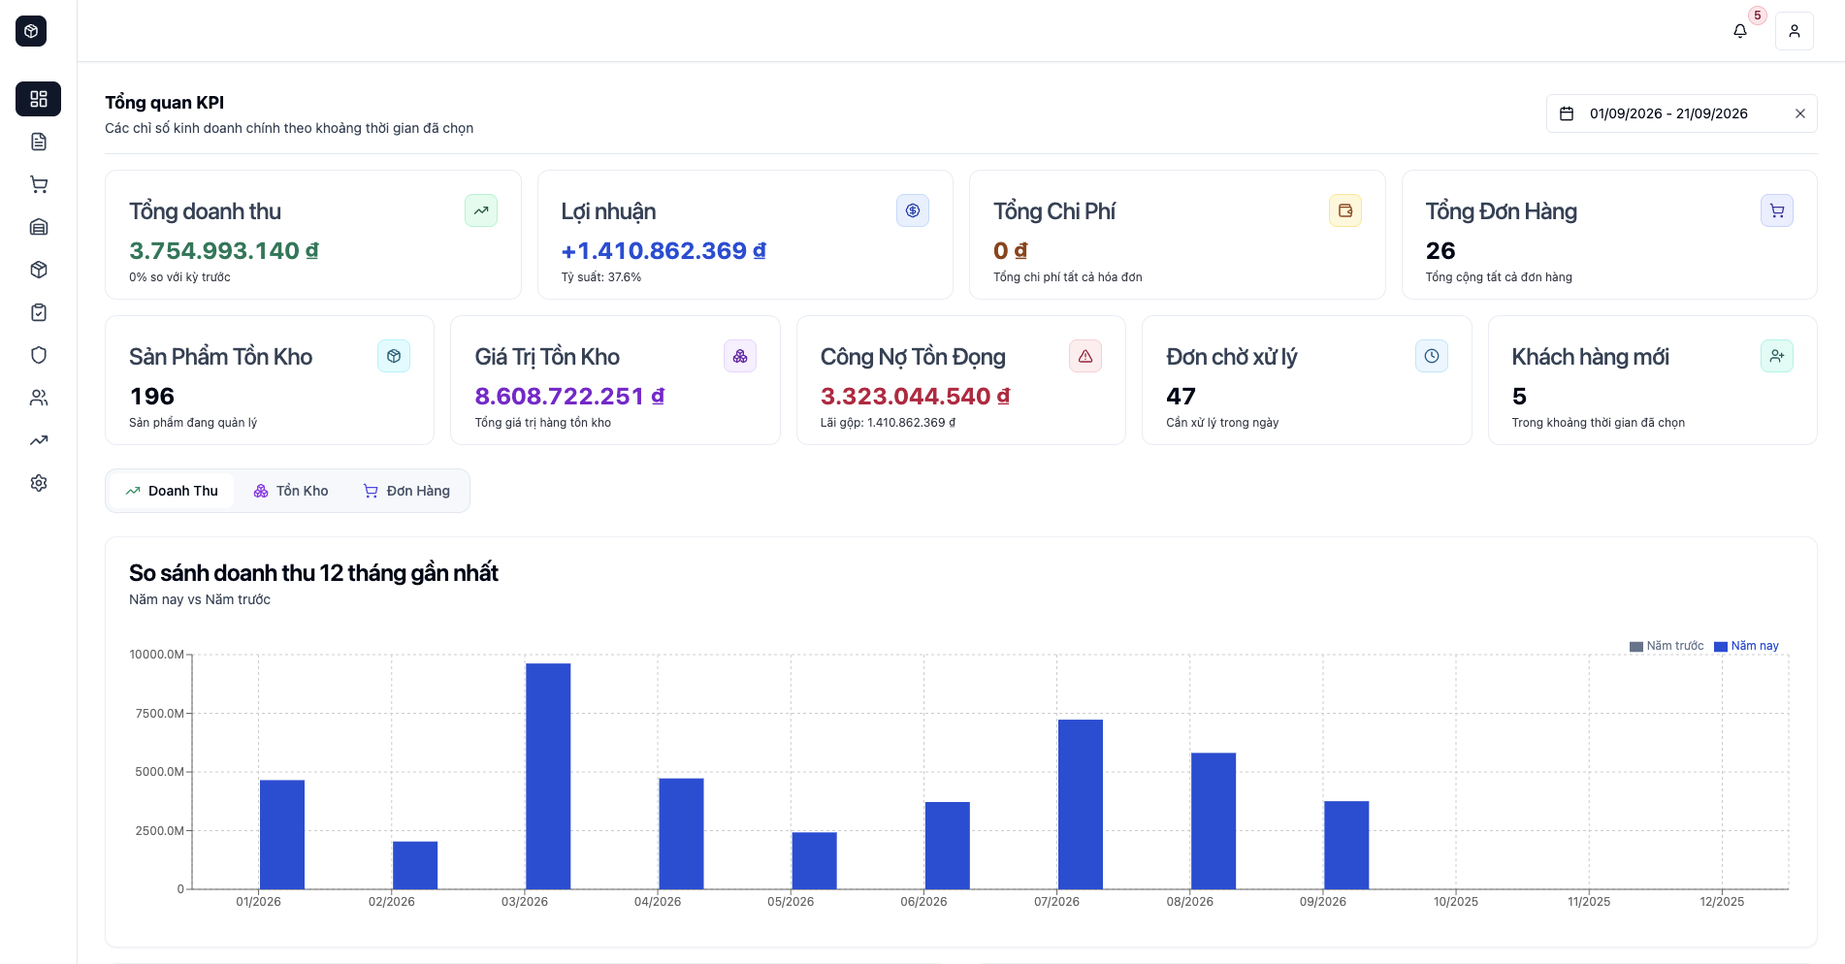
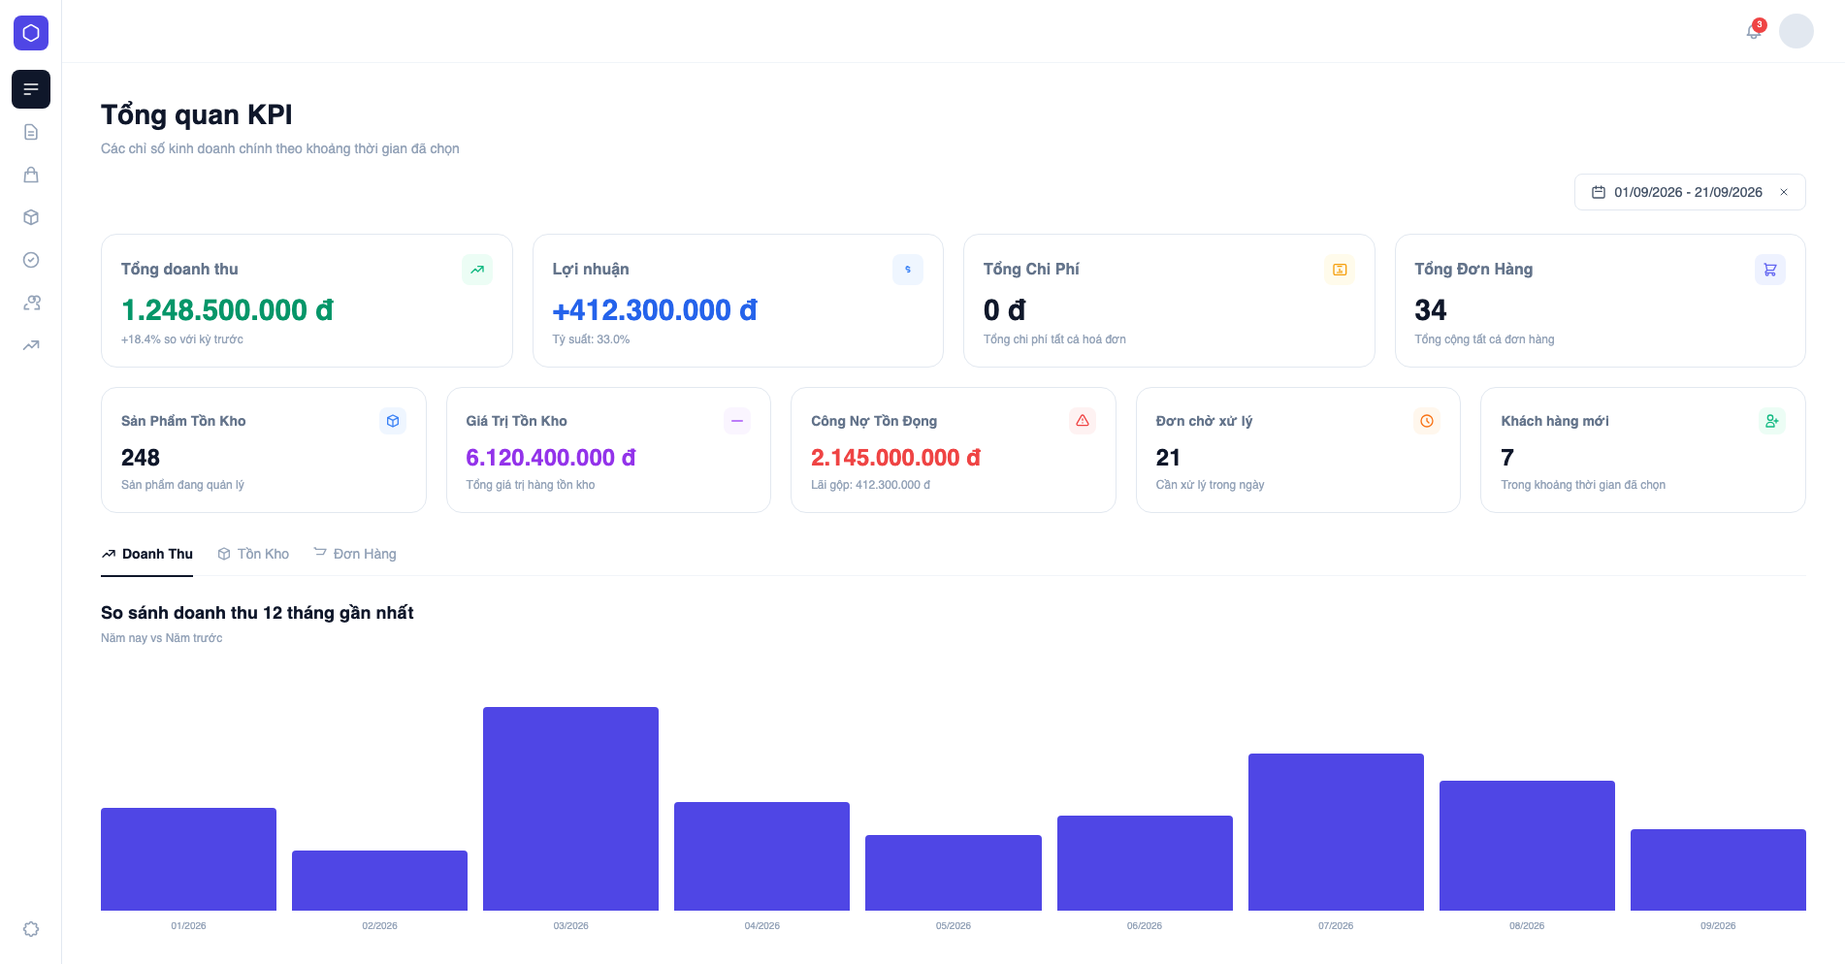
feat: add VienTinSea Contract Hub as 3rd showcase project, fake sensitive data, redesign hero and selector
- Replace VienTinSea Warehouse screenshot with a fabricated mockup (real revenue/inventory figures were exposed publicly before)
- Add VienTinSea Contract Hub as a 3rd showcase project (hero 3D card, tab, detail panel) using a fabricated contract-management mockup screenshot
- Anonymize the Verdict case study's real client name to avoid legal exposure
- Rework the hero 3D card stack layout for 3 cards so they cascade as one cohesive deck instead of floating apart
- Redesign the project selector from a cramped horizontal scroll row into an equal-width 3-column grid with carousel controls on their own row
- Extend switchProjectView/projectConfigs loops from 2 to 3 projects; remove badge translation keys left dead by the selector redesign

diff --git a/index.html b/index.html
@@ -237,7 +237,7 @@
           <div class="mx-auto w-full max-w-[480px] lg:max-w-none">
             
             <!-- 3D Card Deck Container -->
-            <div class="relative w-full h-[330px] sm:h-[360px] lg:h-[380px] card-deck-container select-none">
+            <div class="relative w-full h-[360px] sm:h-[380px] lg:h-[390px] card-deck-container select-none">
               
               <!-- THẺ 1: DỰ ÁN VERDICT - LEGALTECH ENTERPRISE - Tilted -7deg -->
               <div onclick="focusProjectView(0)" onkeydown="if(event.key==='Enter'||event.key===' '){event.preventDefault();focusProjectView(0);}" class="deck-card deck-card-1 group" id="deck-card-0" role="button" tabindex="0" title="Click để xem chi tiết dự án Trợ lý Pháp lý Verdict" aria-label="Xem chi tiết dự án Verdict — Trợ lý Pháp lý AI">
@@ -290,12 +290,37 @@
                 </div>
               </div>
 
+              <!-- THẺ 3: DỰ ÁN QUẢN LÝ HỢP ĐỒNG (VIENTINSEA CONTRACT HUB) - Tilted -3deg -->
+              <div onclick="focusProjectView(2)" onkeydown="if(event.key==='Enter'||event.key===' '){event.preventDefault();focusProjectView(2);}" class="deck-card deck-card-3 group" id="deck-card-2" role="button" tabindex="0" title="Click để xem chi tiết dự án Quản lý Hợp đồng VienTinSea" aria-label="Xem chi tiết dự án VienTinSea Contract Hub">
+                <span class="sheen-sweep"></span>
+                <!-- Mini Window Bar -->
+                <div class="bg-brand-navy px-3 py-2 border-b border-brand-navyLight flex items-center justify-between">
+                  <div class="flex items-center space-x-1.5">
+                    <span class="w-2 h-2 rounded-full bg-red-400"></span>
+                    <span class="w-2 h-2 rounded-full bg-yellow-400"></span>
+                    <span class="w-2 h-2 rounded-full bg-emerald-400"></span>
+                    <span class="ml-2 text-[10px] font-mono text-slate-300 truncate max-w-[120px] sm:max-w-[150px]">contracthub.vientinsea.com</span>
+                  </div>
+                  <div class="flex items-center gap-1 bg-white/10 px-1.5 py-0.5 rounded text-[10px] font-bold text-white tracking-wide">
+                    <span>EasyAI.vn</span>
+                  </div>
+                </div>
+                <!-- Card Body: Real product screenshot -->
+                <div class="bg-white">
+                  <img src="assets/img/projects/contracthub-01.png" alt="VienTinSea Contract Hub, giao diện Quản lý Hợp đồng" class="w-full h-auto block" loading="lazy" width="1902" height="994">
+                  <div class="px-3 py-2 flex items-center justify-between text-[10px] text-slate-500 border-t border-slate-100">
+                    <span class="font-bold text-brand-navy truncate" data-i18n="proj.p2.title">VienTinSea Contract Hub</span>
+                    <span class="text-brand-primary font-bold group-hover:translate-x-0.5 transition-transform shrink-0 ml-2">Chi tiết →</span>
+                  </div>
+                </div>
+              </div>
+
             </div>
 
             <!-- Bottom Showcase Bar (XimiTech Style) -->
             <a href="#showcase-details" class="group mt-6 flex items-center justify-between gap-4 border-t border-slate-200/90 pt-4 text-sm font-bold text-slate-700 transition-colors hover:text-brand-primary">
               <span class="flex items-center gap-3">
-                <span class="text-brand-primary font-black text-base">2+</span>
+                <span class="text-brand-primary font-black text-base">3+</span>
                 <span data-i18n="hero.banner.link">dự án tiêu biểu triển khai theo ngành</span>
               </span>
               <span class="flex h-9 w-9 flex-none items-center justify-center rounded-full border border-slate-300 text-slate-600 transition-all duration-300 group-hover:border-brand-primary group-hover:bg-brand-primary group-hover:text-white shadow-sm">
@@ -335,44 +360,48 @@
       <div class="relative max-w-5xl mx-auto">
 
         <!-- Project Selector Navigation (Tabs + Carousel Controls) -->
-        <div class="mb-4 flex flex-col md:flex-row items-stretch md:items-center justify-between gap-3">
-          <!-- 4 Project Pills -->
-          <div class="flex items-center bg-slate-100/95 p-1 rounded-2xl border border-slate-200/90 shadow-inner overflow-x-auto" role="tablist" aria-label="Project selector">
+        <div class="mb-5">
+          <!-- 3 Project Cards (equal-width grid, wraps on mobile) -->
+          <div class="grid grid-cols-1 sm:grid-cols-3 gap-2.5" role="tablist" aria-label="Project selector">
             <!-- Project 0 Button: Verdict AI -->
-            <button onclick="switchProjectView(0)" id="project-btn-0" class="project-pill px-3.5 sm:px-4 py-2 rounded-xl bg-white text-brand-navy shadow-sm border border-brand-border font-bold text-xs sm:text-sm flex items-center gap-2 transition-all whitespace-nowrap" role="tab" aria-selected="true">
-              <span class="text-base">⚖</span>
-              <div class="text-left leading-tight">
-                <div class="text-[10px] text-brand-primary uppercase font-bold tracking-wider flex items-center gap-1.5">
-                  <span data-i18n="proj.p0.badge">DỰ ÁN 01 · LEGALTECH (VERDICT AI)</span>
-                  <span class="inline-flex items-center px-1.5 py-0.5 rounded-full bg-brand-primary text-white text-[9px] font-bold normal-case tracking-normal" data-i18n="proj.p0.flagship">⭐ Flagship</span>
-                </div>
-                <div class="font-bold text-brand-navy" data-i18n="proj.p0.title">Verdict — Trợ Lý Pháp Lý AI</div>
+            <button onclick="switchProjectView(0)" id="project-btn-0" class="project-pill p-3.5 rounded-xl bg-white text-brand-navy shadow-sm border border-brand-border font-bold text-sm flex items-center gap-3 transition-all min-w-0" role="tab" aria-selected="true">
+              <span class="text-xl shrink-0">⚖</span>
+              <div class="text-left leading-tight min-w-0">
+                <div class="font-bold text-brand-navy truncate" data-i18n="proj.p0.title">Verdict — Trợ Lý Pháp Lý AI</div>
+                <span class="inline-flex items-center mt-1 px-1.5 py-0.5 rounded-full bg-brand-primary text-white text-[9px] font-bold" data-i18n="proj.p0.flagship">⭐ Flagship</span>
               </div>
             </button>
             <!-- Project 1 Button: Logistics -->
-            <button onclick="switchProjectView(1)" id="project-btn-1" class="project-pill px-3.5 sm:px-4 py-2 rounded-xl text-slate-600 hover:text-brand-navy hover:bg-white/60 font-medium text-xs sm:text-sm flex items-center gap-2 transition-all whitespace-nowrap" role="tab" aria-selected="false">
-              <span class="text-base">📦</span>
-              <div class="text-left leading-tight">
-                <div class="text-[10px] text-slate-500 uppercase font-bold tracking-wider" data-i18n="proj.p1.badge">DỰ ÁN 02 · QUẢN LÝ KHO VẬN</div>
-                <div class="font-medium text-brand-navy" data-i18n="proj.p1.title">VienTinSea Warehouse</div>
+            <button onclick="switchProjectView(1)" id="project-btn-1" class="project-pill p-3.5 rounded-xl bg-slate-100/80 text-slate-600 hover:text-brand-navy hover:bg-white font-medium text-sm flex items-center gap-3 transition-all min-w-0" role="tab" aria-selected="false">
+              <span class="text-xl shrink-0">📦</span>
+              <div class="text-left leading-tight min-w-0">
+                <div class="font-medium text-brand-navy truncate" data-i18n="proj.p1.title">VienTinSea Warehouse</div>
+                <div class="text-[10px] text-slate-400 font-semibold uppercase tracking-wide mt-0.5" data-i18n="proj.p1.badge.short">Quản lý Kho vận</div>
+              </div>
+            </button>
+            <!-- Project 2 Button: Contract Hub -->
+            <button onclick="switchProjectView(2)" id="project-btn-2" class="project-pill p-3.5 rounded-xl bg-slate-100/80 text-slate-600 hover:text-brand-navy hover:bg-white font-medium text-sm flex items-center gap-3 transition-all min-w-0" role="tab" aria-selected="false">
+              <span class="text-xl shrink-0">📄</span>
+              <div class="text-left leading-tight min-w-0">
+                <div class="font-medium text-brand-navy truncate" data-i18n="proj.p2.title">VienTinSea Contract Hub</div>
+                <div class="text-[10px] text-slate-400 font-semibold uppercase tracking-wide mt-0.5" data-i18n="proj.p2.badge.short">Quản lý Hợp đồng</div>
               </div>
             </button>
           </div>
 
           <!-- Carousel Controls: Dots & Prev/Next Arrows -->
-          <div class="flex items-center justify-between md:justify-end gap-3 px-1">
+          <div class="flex items-center justify-center gap-4 mt-3.5">
+            <button onclick="stepProjectView(-1)" class="p-1.5 rounded-lg text-slate-400 hover:text-brand-navy hover:bg-slate-100 transition-all focus:outline-none focus:ring-2 focus:ring-brand-primary" aria-label="Previous project" title="Dự án trước">
+              <svg class="w-4 h-4" fill="none" stroke="currentColor" viewBox="0 0 24 24"><path stroke-linecap="round" stroke-linejoin="round" stroke-width="2" d="M15 19l-7-7 7-7"/></svg>
+            </button>
             <div class="flex items-center gap-1.5" id="project-dots">
               <span class="w-3 h-2.5 rounded-full bg-brand-primary transition-all cursor-pointer" onclick="switchProjectView(0)" title="Dự án 1: Verdict Legal AI"></span>
               <span class="w-2 h-2 rounded-full bg-slate-300 hover:bg-slate-400 transition-all cursor-pointer" onclick="switchProjectView(1)" title="Dự án 2: Logistics"></span>
+              <span class="w-2 h-2 rounded-full bg-slate-300 hover:bg-slate-400 transition-all cursor-pointer" onclick="switchProjectView(2)" title="Dự án 3: Contract Hub"></span>
             </div>
-            <div class="flex items-center gap-1.5">
-              <button onclick="stepProjectView(-1)" class="p-2 rounded-lg bg-white hover:bg-slate-100 border border-slate-200 text-brand-navy shadow-sm transition-all focus:outline-none" aria-label="Previous project" title="Dự án trước">
-                <svg class="w-4 h-4" fill="none" stroke="currentColor" viewBox="0 0 24 24"><path stroke-linecap="round" stroke-linejoin="round" stroke-width="2" d="M15 19l-7-7 7-7"/></svg>
-              </button>
-              <button onclick="stepProjectView(1)" class="p-2 rounded-lg bg-white hover:bg-slate-100 border border-slate-200 text-brand-navy shadow-sm transition-all focus:outline-none" aria-label="Next project" title="Dự án tiếp theo">
-                <svg class="w-4 h-4" fill="none" stroke="currentColor" viewBox="0 0 24 24"><path stroke-linecap="round" stroke-linejoin="round" stroke-width="2" d="M9 5l7 7-7 7"/></svg>
-              </button>
-            </div>
+            <button onclick="stepProjectView(1)" class="p-1.5 rounded-lg text-slate-400 hover:text-brand-navy hover:bg-slate-100 transition-all focus:outline-none focus:ring-2 focus:ring-brand-primary" aria-label="Next project" title="Dự án tiếp theo">
+              <svg class="w-4 h-4" fill="none" stroke="currentColor" viewBox="0 0 24 24"><path stroke-linecap="round" stroke-linejoin="round" stroke-width="2" d="M9 5l7 7-7 7"/></svg>
+            </button>
           </div>
         </div>
 
@@ -402,7 +431,7 @@
           <div class="bg-brand-bgLight px-6 py-2.5 border-b border-brand-border flex flex-wrap items-center justify-between gap-3 text-xs">
             <div class="flex items-center gap-2 text-slate-700">
               <span class="w-2 h-2 rounded-full bg-brand-primary"></span>
-              <span id="project-mockup-client" class="font-semibold text-brand-navy" data-i18n="proj.p0.client">Triển khai thực tế tại Liên minh Năng lượng & Xây dựng Tín Phát (Audit danh mục HĐ $185M+)</span>
+              <span id="project-mockup-client" class="font-semibold text-brand-navy" data-i18n="proj.p0.client">Triển khai thực tế tại một Tập đoàn Năng lượng & Xây dựng hàng đầu (Audit danh mục HĐ $185M+)</span>
             </div>
             <span class="text-brand-navyMuted font-mono" data-i18n="proj.sync">Dữ liệu thời gian thực: Đồng bộ 12:45:00</span>
           </div>
@@ -449,6 +478,20 @@
             </div>
           </div>
 
+          <!-- ============================================================== -->
+          <!-- KHUNG VIEW 03: DỰ ÁN QUẢN LÝ HỢP ĐỒNG (VIENTINSEA CONTRACT HUB) -->
+          <!-- ============================================================== -->
+          <div id="project-view-2" class="p-6 hidden">
+            <!-- Real product screenshot -->
+            <div class="rounded-xl border border-brand-border overflow-hidden bg-slate-50">
+              <img src="assets/img/projects/contracthub-01.png" alt="Ảnh chụp giao diện Quản lý Hợp đồng VienTinSea" class="w-full h-auto block" loading="lazy" width="1902" height="994">
+            </div>
+            <div class="mt-5">
+              <a href="#demo-form" class="block text-center w-full py-2.5 rounded-lg bg-brand-navy text-white text-xs font-bold hover:bg-brand-navyLight transition-colors" data-i18n="proj.p2.nba.btn">
+                Xem demo bài toán Quản lý Hợp đồng của bạn →
+              </a>
+            </div>
+          </div>
 
         </div>
       </div>

diff --git a/assets/js/app.js b/assets/js/app.js
@@ -29,18 +29,22 @@
         "showcase.badge": "THỰC TẾ TRIỂN KHAI · DOANH NGHIỆP LỚN",
         "showcase.title": "Một Vài Dự Án Tiêu Biểu Của Easy&nbsp;AI",
         "showcase.subtitle": "Khám phá dữ liệu nghiệp vụ thực tế, cấu trúc KPI theo ngành và các hành động tự động hóa AI đã vận hành tại các đối tác quy mô lớn.",
-        "proj.p0.badge": "DỰ ÁN 01 · LEGALTECH (VERDICT AI)",
         "proj.p0.flagship": "⭐ Dự án Flagship",
         "proj.p0.title": "Verdict — Trợ Lý Pháp Lý AI",
-        "proj.p0.client": "Triển khai thực tế tại Liên minh Năng lượng & Xây dựng Tín Phát (Audit danh mục HĐ $185M+)",
+        "proj.p0.client": "Triển khai thực tế tại một Tập đoàn Năng lượng & Xây dựng hàng đầu (Audit danh mục HĐ $185M+)",
         "proj.p0.status": "AI Engine: Legal LLM Fine-Tuned · On-Premise Isolated · VIAC / ICC Ready",
         "proj.p0.nba.btn": "Trải nghiệm thử Verdict Legal AI →",
-        "proj.p1.badge": "DỰ ÁN 02 · QUẢN LÝ KHO VẬN",
         "proj.p1.title": "VienTinSea Warehouse",
         "proj.p1.client": "Triển khai thực tế tại VienTinSea Warehouse",
         "proj.p1.status": "AI Engine: v4.2 Active · Đồng bộ WMS Realtime",
         "proj.sync": "Dữ liệu thời gian thực: Đồng bộ 12:45:00",
         "proj.p1.nba.btn": "Xem demo bài toán Quản lý Kho vận của bạn →",
+        "proj.p2.title": "VienTinSea Contract Hub",
+        "proj.p2.client": "Triển khai thực tế tại VienTinSea Contract Hub",
+        "proj.p2.status": "AI Engine: v4.2 Active · Đồng bộ Chữ ký số Realtime",
+        "proj.p2.nba.btn": "Xem demo bài toán Quản lý Hợp đồng của bạn →",
+        "proj.p1.badge.short": "Quản lý Kho vận",
+        "proj.p2.badge.short": "Quản lý Hợp đồng",
         "dash.copilot.b2": "• <strong>Người có tiếng nói quyết định:</strong> Giám đốc Chuyển đổi số (Đã đồng ý ngân sách) & Trưởng phòng An ninh thông tin (Cần xem xét chứng nhận D-U-N-S và ISO 27001).",
         "problem.tag": "Thực trạng nhức nhối",
         "problem.title": "Vì sao 80% dự án CRM hiện nay không mang lại giá trị thực?",
@@ -256,18 +260,22 @@
         "showcase.badge": "PRODUCTION DEPLOYMENTS · ENTERPRISE TIER",
         "showcase.title": "Selected Enterprise AI Deployments by Easy&nbsp;AI",
         "showcase.subtitle": "Explore live production metrics, industry-specific KPIs, and autonomous AI actions deployed across enterprise partners.",
-        "proj.p0.badge": "PROJECT 01 · LEGALTECH (VERDICT AI)",
         "proj.p0.flagship": "⭐ Flagship Project",
         "proj.p0.title": "Verdict — AI Legal Intelligence",
-        "proj.p0.client": "Live deployment at Tin Phat Energy & Infrastructure Group ($185M+ contract audit portfolio)",
+        "proj.p0.client": "Live deployment at a leading Energy & Infrastructure Group ($185M+ contract audit portfolio)",
         "proj.p0.status": "AI Engine: Legal LLM Fine-Tuned · On-Premise Isolated · VIAC / ICC Ready",
         "proj.p0.nba.btn": "Explore Verdict Legal AI Demo →",
-        "proj.p1.badge": "PROJECT 02 · WAREHOUSE MANAGEMENT",
         "proj.p1.title": "VienTinSea Warehouse",
         "proj.p1.client": "Live deployment at VienTinSea Warehouse",
         "proj.p1.status": "AI Engine: v4.2 Active · Realtime WMS Sync",
         "proj.sync": "Real-time data: Synced 12:45:00",
         "proj.p1.nba.btn": "Explore Warehouse Management Demo →",
+        "proj.p2.title": "VienTinSea Contract Hub",
+        "proj.p2.client": "Live deployment at VienTinSea Contract Hub",
+        "proj.p2.status": "AI Engine: v4.2 Active · Realtime E-Signature Sync",
+        "proj.p2.nba.btn": "Explore Contract Management Demo →",
+        "proj.p1.badge.short": "Warehouse Management",
+        "proj.p2.badge.short": "Contract Management",
         "dash.copilot.b2": "• <strong>Key Decision Makers:</strong> Chief Digital Officer (Budget approved) & CISO (Reviewing D-U-N-S and ISO 27001 credentials).",
         "problem.tag": "The Enterprise Reality",
         "problem.title": "Why 80% of Enterprise CRM Projects Fail to Deliver ROI",
@@ -518,7 +526,7 @@
       menu.classList.toggle('hidden');
     }
 
-    // 2 Enterprise Project Showcase Views Switcher
+    // 3 Enterprise Project Showcase Views Switcher
     let currentProject = 0;
     const projectConfigs = [
       {
@@ -530,15 +538,20 @@
         url: "warehub-vientinsea.easyai-wallet.com",
         statusKey: "proj.p1.status",
         clientKey: "proj.p1.client"
+      },
+      {
+        url: "contracthub.vientinsea.com/dashboard",
+        statusKey: "proj.p2.status",
+        clientKey: "proj.p2.client"
       }
     ];
 
     function switchProjectView(index) {
-      currentProject = (index + 2) % 2;
+      currentProject = (index + 3) % 3;
       const currentLang = document.documentElement.lang || 'vi';
       const dict = translations[currentLang] || translations.vi;
 
-      for (let i = 0; i < 2; i++) {
+      for (let i = 0; i < 3; i++) {
         const view = document.getElementById(`project-view-${i}`);
         const btn = document.getElementById(`project-btn-${i}`);
         if (i === currentProject) {
@@ -549,22 +562,18 @@
             view.classList.add('tab-content-enter');
           }
           if (btn) {
-            btn.className = "project-pill px-3.5 sm:px-4 py-2 rounded-xl bg-white text-brand-navy shadow-sm border border-brand-border font-bold text-xs sm:text-sm flex items-center gap-2 transition-all whitespace-nowrap";
+            btn.className = "project-pill p-3.5 rounded-xl bg-white text-brand-navy shadow-sm border border-brand-border font-bold text-sm flex items-center gap-3 transition-all min-w-0";
             btn.setAttribute('aria-selected', 'true');
-            const badge = btn.querySelector('[data-i18n$=".badge"]');
-            if (badge) badge.className = "text-[10px] text-brand-primary uppercase font-bold tracking-wider";
             const title = btn.querySelector('[data-i18n$=".title"]');
-            if (title) title.className = "font-bold text-brand-navy";
+            if (title) title.className = "font-bold text-brand-navy truncate";
           }
         } else {
           if (view) view.classList.add('hidden');
           if (btn) {
-            btn.className = "project-pill px-3.5 sm:px-4 py-2 rounded-xl text-slate-600 hover:text-brand-navy hover:bg-white/60 font-medium text-xs sm:text-sm flex items-center gap-2 transition-all whitespace-nowrap";
+            btn.className = "project-pill p-3.5 rounded-xl bg-slate-100/80 text-slate-600 hover:text-brand-navy hover:bg-white font-medium text-sm flex items-center gap-3 transition-all min-w-0";
             btn.setAttribute('aria-selected', 'false');
-            const badge = btn.querySelector('[data-i18n$=".badge"]');
-            if (badge) badge.className = "text-[10px] text-slate-500 uppercase font-bold tracking-wider";
             const title = btn.querySelector('[data-i18n$=".title"]');
-            if (title) title.className = "font-medium text-brand-navy";
+            if (title) title.className = "font-medium text-brand-navy truncate";
           }
         }
       }
@@ -594,7 +603,7 @@
       }
 
       // Sync 3D deck card focus state
-      for (let i = 0; i < 2; i++) {
+      for (let i = 0; i < 3; i++) {
         const card = document.getElementById(`deck-card-${i}`);
         if (card) {
           if (i === currentProject) card.classList.add('focused');

diff --git a/assets/css/styles.css b/assets/css/styles.css
@@ -91,21 +91,29 @@
     }
     .deck-card-1 {
       left: 0%;
-      top: 1%;
-      width: 68%;
-      transform: rotate(-7deg);
-      z-index: 25;
+      top: 2%;
+      width: 56%;
+      transform: rotate(-6deg);
+      z-index: 20;
     }
     .deck-card-2 {
       right: 0%;
-      top: 8%;
-      width: 55%;
+      top: 0%;
+      width: 44%;
       transform: rotate(6deg);
       z-index: 15;
     }
+    .deck-card-3 {
+      left: 22%;
+      top: 32%;
+      width: 50%;
+      transform: rotate(-2deg);
+      z-index: 30;
+    }
     @media (max-width: 640px) {
-      .deck-card-1 { width: 80%; transform: rotate(-4deg); left: -2%; }
-      .deck-card-2 { width: 65%; transform: rotate(3deg); right: -2%; }
+      .deck-card-1 { width: 72%; transform: rotate(-4deg); left: -2%; }
+      .deck-card-2 { width: 58%; transform: rotate(3deg); right: -2%; }
+      .deck-card-3 { width: 66%; transform: rotate(-2deg); left: 12%; }
     }
     .process-card {
       transition: all 0.3s cubic-bezier(0.16, 1, 0.3, 1);
